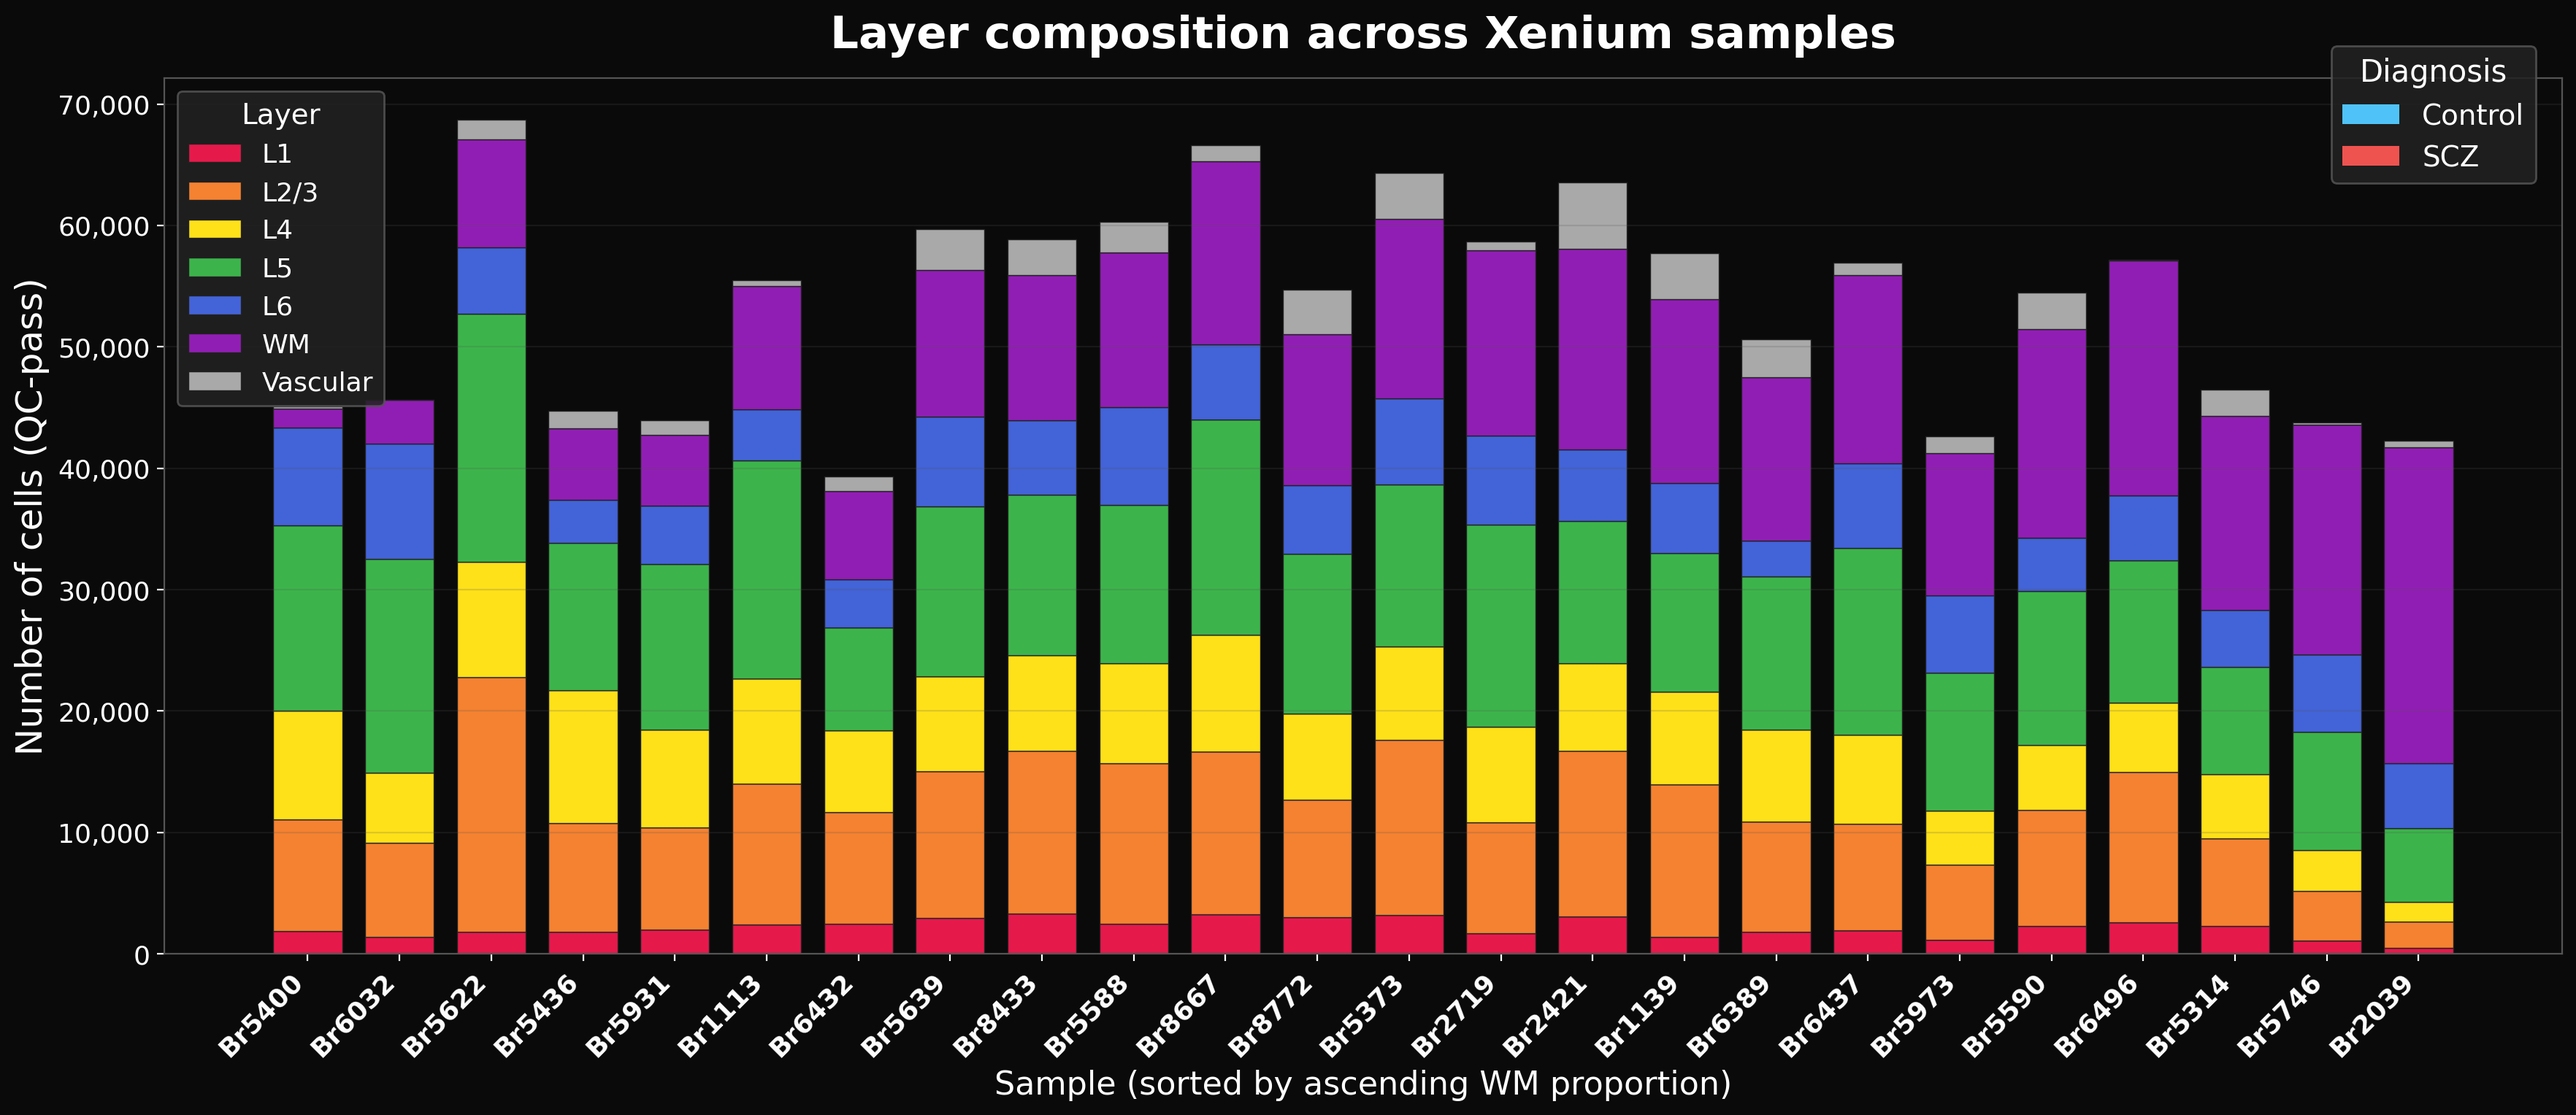
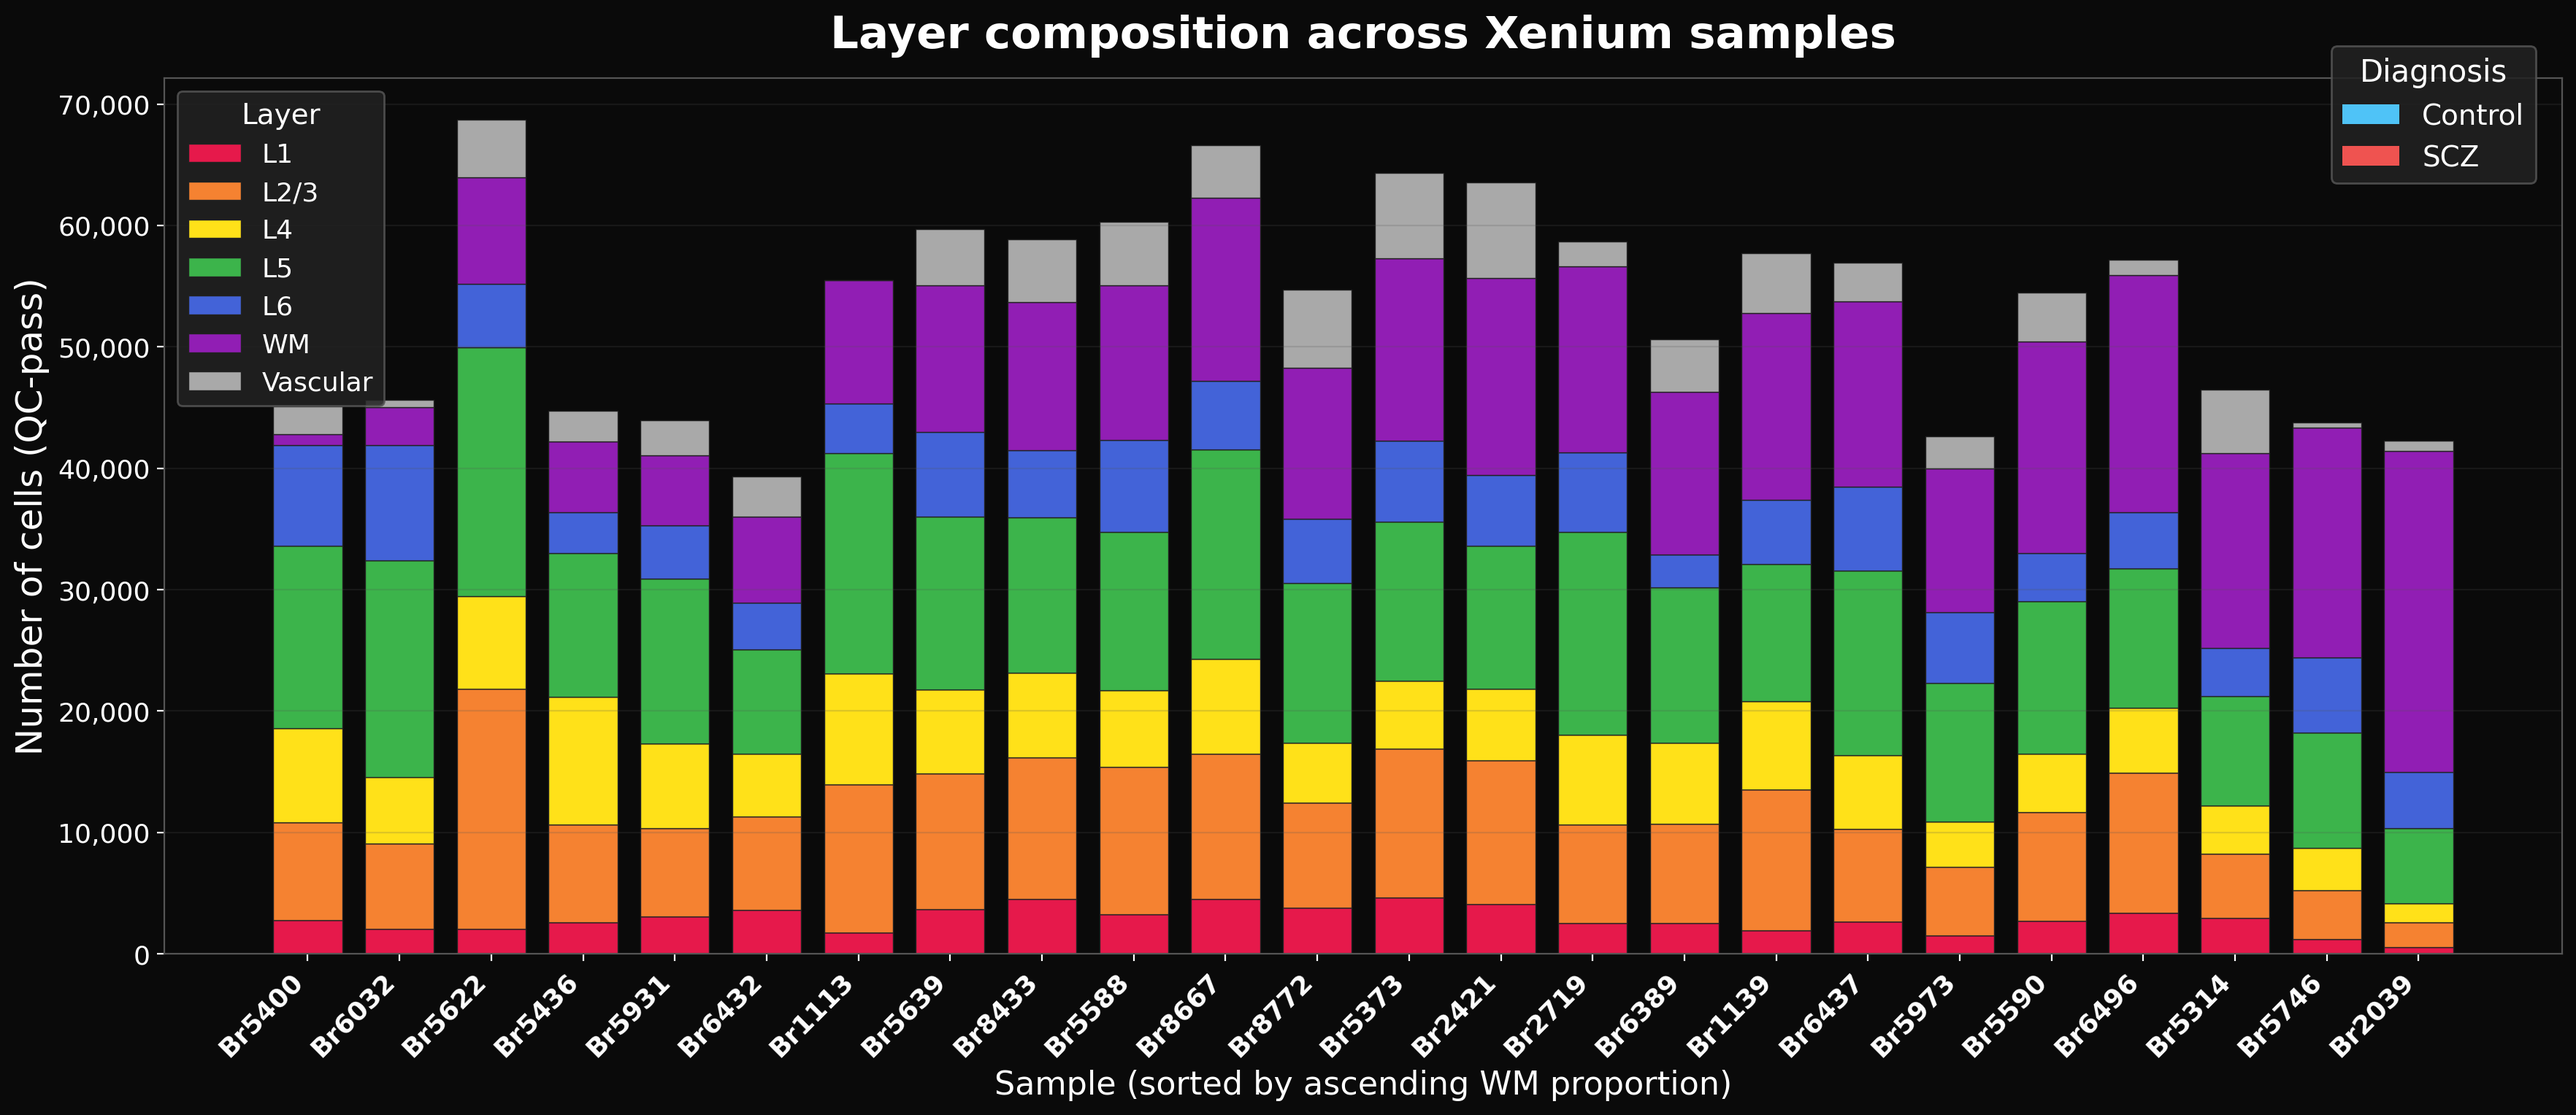
Update depth/layer methods writeup for BANKSY approach
Remove superseded "Previous approach" section, clean old-approach
references, add non-neuronal supertype violin figure, regenerate
layer stacked bar from spatially smoothed data.

diff --git a/depth_layer_methods_writeup.md b/depth_layer_methods_writeup.md
@@ -73,17 +73,13 @@ Each resulting cluster is classified by its cell type composition and mean predi
 | **Deep WM** | Mean depth > 0.80 (fallback) |
 | **Cortical** | Default |
 
-Key improvements over the previous approach:
+Key advantages of this approach:
 
-1. **L1 border detection**: Shallow non-neuronal-dominated BANKSY clusters are correctly identified as L1 cortex, not "Extra-cortical." This was validated by MERFISH comparison: L1 has ~81% non-neuronal composition (astrocytes, microglia, endothelial), which the previous K-NN Leiden approach misclassified as pia/meninges. The `banksy_is_l1` flag marks these cells for downstream use.
+1. **L1 border detection**: Shallow non-neuronal-dominated BANKSY clusters are correctly identified as L1 cortex rather than pia/meninges. This is validated by MERFISH comparison: L1 has ~81% non-neuronal composition (astrocytes, microglia, endothelial), yet is cortical tissue. The `banksy_is_l1` flag marks these cells for downstream use.
 
-2. **White matter detection**: BANKSY clusters with high oligodendrocyte fraction (>40%) and deep mean depth (>0.80) are classified as WM. The previous approach had no explicit WM detection.
+2. **White matter detection**: BANKSY clusters with high oligodendrocyte fraction (>40%) and deep mean depth (>0.80) are classified as WM, providing explicit white matter identification.
 
-3. **Lower vascular threshold**: BANKSY clusters are spatially coherent by construction, so the vascular threshold can be lowered from 80% to 50% without increasing false positives from scattered cortical vascular cells.
-
-### Previous approach (superseded)
-
-The original spatial domain classification used K=50 neighborhood composition features (the same features as the depth model) → PCA → KNN graph → Leiden clustering (resolution=0.8), then classified clusters as Extra-cortical (>60% non-neuronal + shallow depth) or Vascular (>80% Endo+VLMC). An OOD detection model (1-NN distance to MERFISH training data, calibrated at the 99th percentile of held-out test distances) was also developed but never deployed in the pipeline. Both approaches have been superseded by the BANKSY method, which provides more accurate domain classification with explicit L1 border and WM detection.
+3. **Lower vascular threshold**: BANKSY clusters are spatially coherent by construction, so a 50% Endo+VLMC threshold reliably identifies vascular regions without false positives from scattered cortical vascular cells.
 
 ### Aggregate domain breakdown
 
@@ -183,11 +179,14 @@ At finer resolution, we compare depth distributions for every supertype within e
 ![Supertype depth distributions — GABAergic](output/presentation/supertype_depth_violins_gabaergic.png)
 *Figure 6. Supertype depth distributions for GABAergic subclasses. Interneuron supertypes show broader depth distributions than excitatory types, consistent with their wider laminar spread, but the overall ordering and distribution shapes are well-matched between MERFISH and Xenium.*
 
+![Supertype depth distributions — Non-neuronal](output/presentation/supertype_depth_violins_nonneuronal.png)
+*Figure 7. Supertype depth distributions for non-neuronal subclasses. Non-neuronal types are distributed across all cortical depths, with astrocytes and microglia spanning the full column and oligodendrocytes concentrated in deep cortex/white matter.*
+
 ### Key design decisions
 
 1. **Neighborhood-based features for depth** rather than per-cell expression: robust to individual cell misclassification; captures local tissue context
 2. **Unclamped predictions**: naturally detects cells outside the cortical column (depth < 0 or > 1) without arbitrary thresholds
 3. **Donor-level train/test split**: ensures the model generalizes to new individuals, not just new cells from the same donors
 4. **BANKSY for domain classification**: spatially aware clustering (gene expression + spatial context) produces coherent domains without manual neighborhood feature engineering, enabling correct L1 border detection and explicit WM identification
-5. **L1 as cortex, not extra-cortical**: MERFISH validation showed L1 has ~81% non-neuronal composition — it is cortex, not meninges. The `banksy_is_l1` flag preserves this distinction for downstream analyses
+5. **L1 as cortex, not meninges**: MERFISH validation showed L1 has ~81% non-neuronal composition — it is cortex, not pia/meninges. The `banksy_is_l1` flag preserves this distinction for downstream analyses
 6. **Spatial smoothing over raw depth bins**: individual cell depth predictions are noisy; spatial majority voting within BANKSY domains produces layer boundaries that are spatially coherent without requiring manual curation. The 3-step pipeline (within-domain vote, vascular trim, L1 contiguity) addresses distinct error modes: noisy cortical boundaries, over-extended vascular domains, and fragmented L1 assignment
